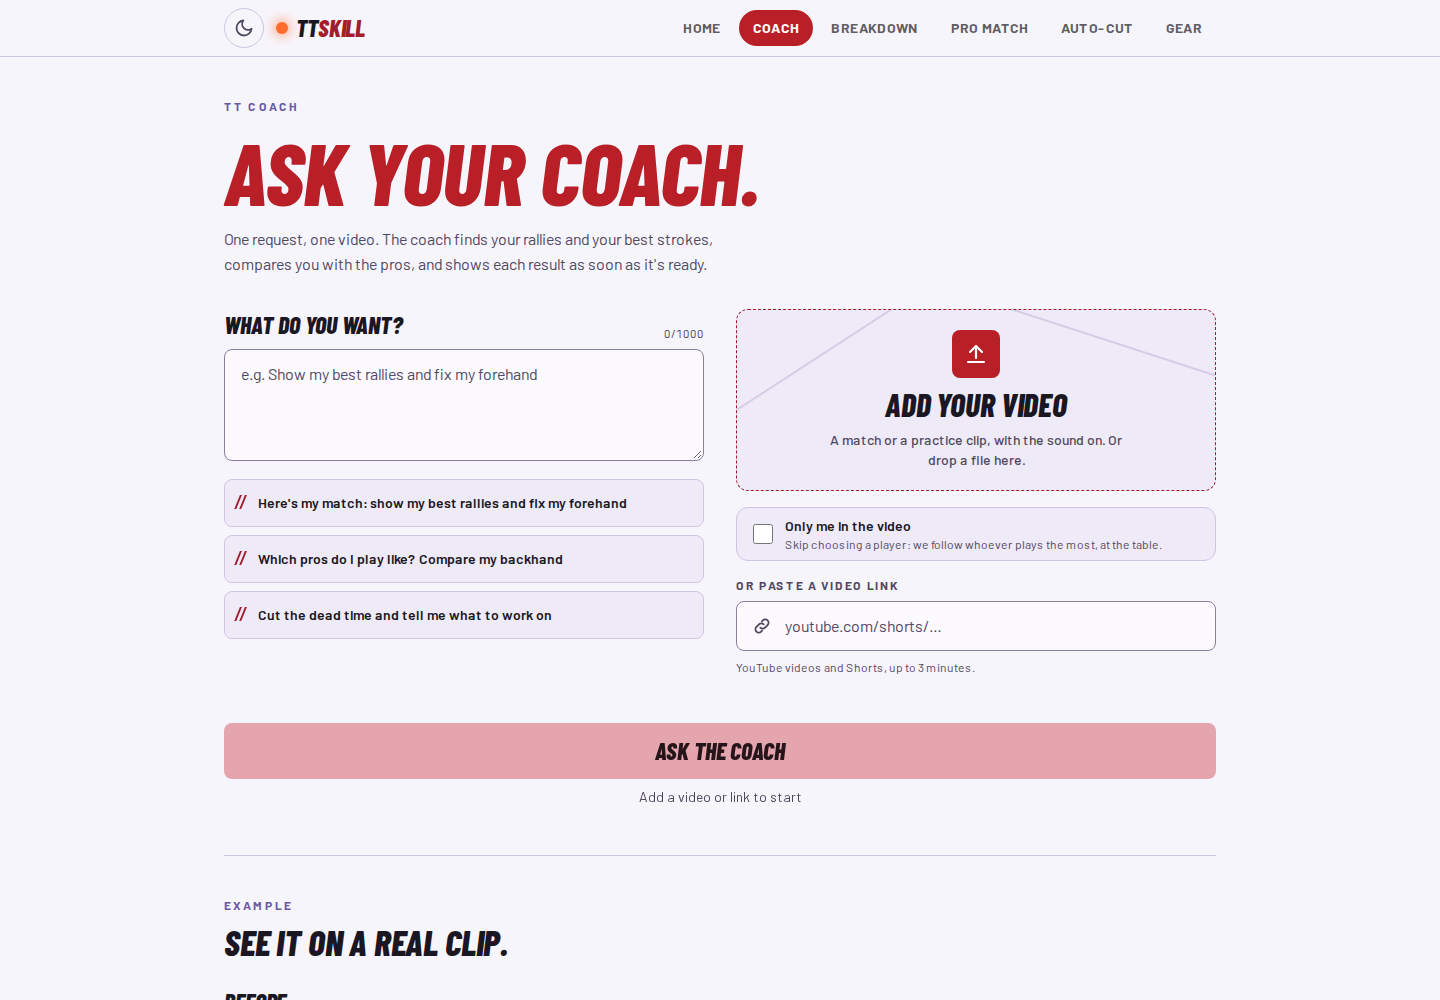
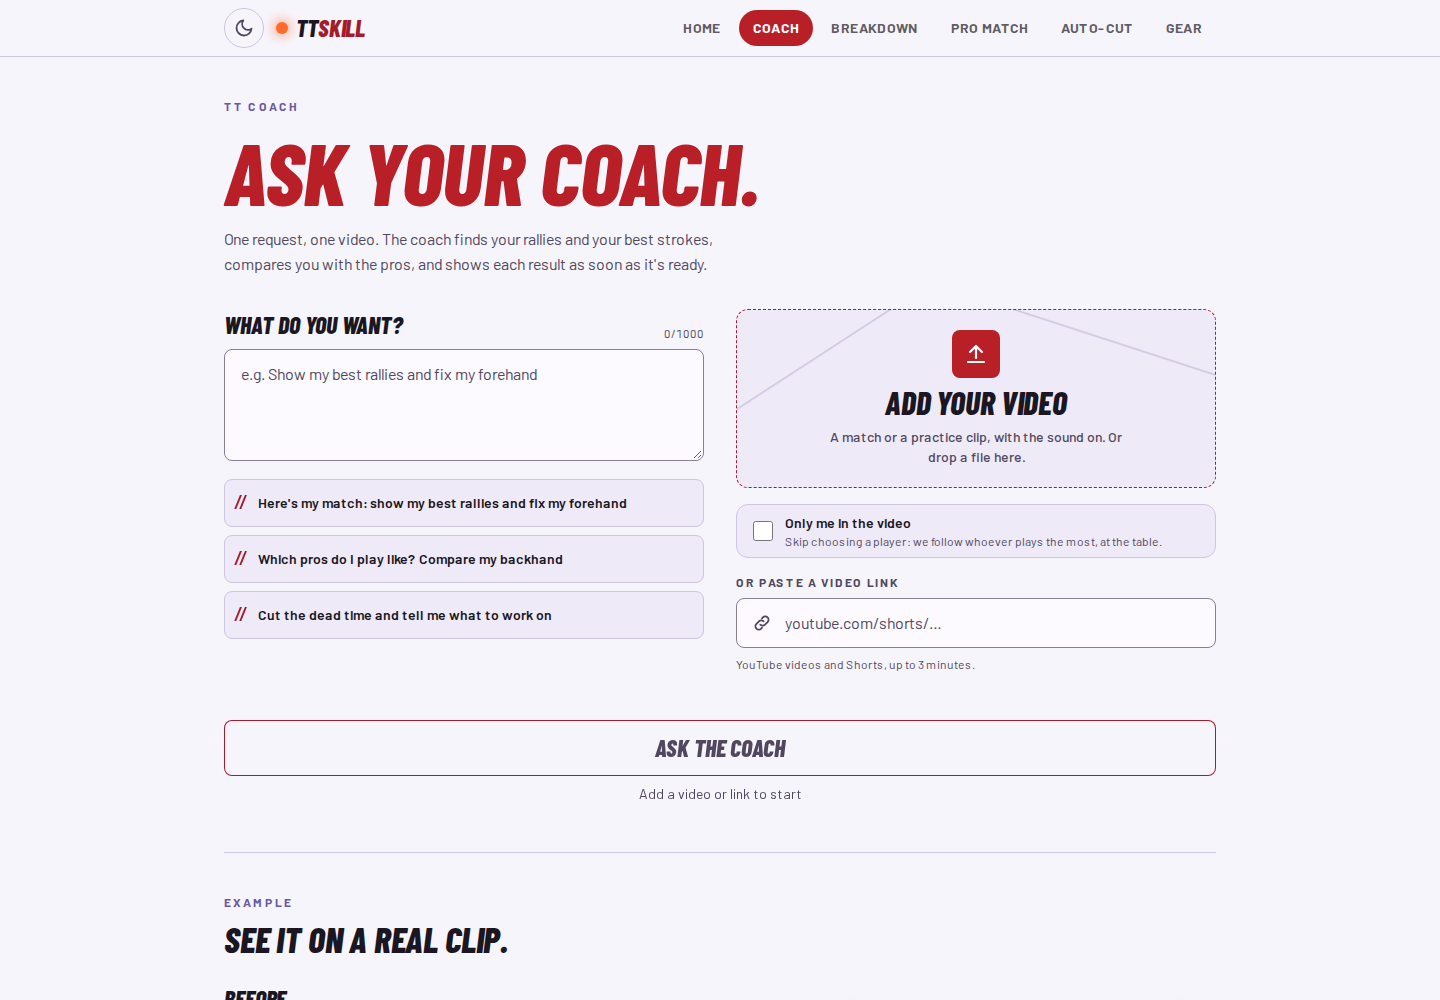
Finalize shared site styling and responsive verification

diff --git a/frontend/app/globals.css b/frontend/app/globals.css
@@ -6,15 +6,15 @@
 @custom-variant light (&:where([data-theme="light"], [data-theme="light"] *));
 
 @theme {
-  /* Ball orange on near-black. */
   --color-ball: #ff6b2c;
-  --color-accent: var(--color-ball);
-  --color-accent-hot: #ff8547;
-  --color-ink: #07090d;
-  --color-panel: #0e1218;
-  --color-line: rgb(255 255 255 / 0.09);
-  --color-muted: #8f97aa;
-  --color-fg: #eef0f5;
+  --color-accent: var(--training-accent);
+  --color-accent-hot: var(--training-ink);
+  --color-ink: var(--training-bg);
+  --color-panel: var(--training-surface);
+  --color-line: var(--training-line);
+  --color-muted: var(--training-muted);
+  --color-fg: var(--training-ink);
+  --color-white: var(--training-ink);
 }
 
 @theme inline {
@@ -56,37 +56,19 @@
   }
 }
 
-/* Light mode: same tokens on a light red page. White is remapped to dark ink so the
-   white-alpha hovers, borders and faint text used across pages flip with the theme. */
-:root[data-theme="light"] {
-  color-scheme: light;
-  --color-accent: #d9400b;
-  --color-accent-hot: #c03608;
-  --color-ink: #ffd6d0;
-  --color-panel: #fff4f2;
-  --color-line: rgb(60 8 8 / 0.16);
-  --color-muted: #6b3a36;
-  --color-fg: #1f0a09;
-  --color-white: #1f0a09;
-}
-
 html {
   color-scheme: dark;
-  --accent-glow: var(--color-ball);
+  --accent-glow: var(--training-action);
   -webkit-tap-highlight-color: transparent;
 }
 
-body {
-  background:
-    radial-gradient(70rem 28rem at 50% -10rem, color-mix(in srgb, var(--color-ball) 16%, transparent), transparent 70%) no-repeat,
-    var(--color-ink);
-  color: var(--color-fg);
+:root[data-theme="light"] {
+  color-scheme: light;
 }
 
-:root[data-theme="light"] body {
-  background:
-    radial-gradient(70rem 28rem at 50% -10rem, rgb(220 38 38 / 0.22), transparent 70%) no-repeat,
-    var(--color-ink);
+body {
+  background: var(--training-bg);
+  color: var(--training-ink);
 }
 
 :focus-visible {
@@ -94,7 +76,7 @@ body {
   outline-offset: 2px;
 }
 
-/* Table and rubber palette used by Coach. */
+/* Table and rubber palette. */
 :root {
   --training-bg: #0a0d12;
   --training-surface: #0e2a47;

diff --git a/frontend/app/training.css b/frontend/app/training.css
@@ -1,37 +1,10 @@
-:root body:has(> main :is(.coach-form, .coach-result, .training-page)) {
-  --color-ink: var(--training-bg);
-  --color-fg: var(--training-ink);
-  --color-white: var(--training-ink);
-  --color-muted: var(--training-muted);
-  --color-panel: var(--training-surface);
-  --color-line: var(--training-line);
-  --color-accent: var(--training-accent);
-  --color-accent-hot: var(--training-ink);
-  --accent-glow: var(--training-action);
-  background: var(--training-bg);
-  color: var(--training-ink);
+/* Keep header text and its background in the same theme during the switch. */
+.site-nav :is(a, button) {
+  transition-property: none;
+}
 
-  > header {
-    background-color: var(--training-bg);
-  }
-
-  .site-nav :is(a, button) {
-    /* Keep the label and its backdrop in the same theme during the switch. */
-    transition-property: none;
-  }
-
-  .brand-ball {
-    background-color: var(--color-ball);
-  }
-
-  :is(.site-nav-links, .gear-tabs) a[aria-current="page"] {
-    background-color: var(--training-action);
-    color: var(--training-on-action);
-  }
-
-  :is([role="alert"], .text-red-100, .text-red-200, .text-red-300, .text-red-400) {
-    color: var(--training-error);
-  }
+:is([role="alert"], .text-red-100, .text-red-200, .text-red-300, .text-red-400) {
+  color: var(--training-error);
 }
 
 .eyebrow {
@@ -76,7 +49,7 @@
   color: var(--training-muted);
 }
 
-.surface-card {
+@utility surface-card {
   border: 1px solid var(--training-line);
   border-radius: var(--training-panel-radius);
   background-color: var(--training-surface);
@@ -199,6 +172,11 @@ a.primary-button:hover {
 }
 
 @media (width < 600px) {
+  html:has(.feature-form) {
+    /* Keep scrolled-to fields clear of the sticky header and submit bar. */
+    scroll-padding-block: 7.25rem 7rem;
+  }
+
   .site-nav {
     display: grid;
     grid-template-columns: auto minmax(0, 1fr);

diff --git a/frontend/app/jobs/[id]/page.tsx b/frontend/app/jobs/[id]/page.tsx
@@ -188,7 +188,7 @@ export default function JobPage({ params }: { params: Promise<{ id: string }> })
 
   if (error) {
     return (
-      <div className="mx-auto training-page max-w-xl space-y-4 rounded-3xl border border-red-500/30 bg-red-500/10 p-6">
+      <div className="mx-auto max-w-xl space-y-4 rounded-3xl border border-red-500/30 bg-red-500/10 p-6">
         <p className="section-title text-4xl">Job not found</p>
         <p className="text-red-200">{error}</p>
         <Link href="/" className={secondaryButtonClass}>Back home</Link>
@@ -198,7 +198,7 @@ export default function JobPage({ params }: { params: Promise<{ id: string }> })
 
   if (!job) {
     return (
-      <div className="training-page mx-auto max-w-3xl" aria-busy="true">
+      <div className="mx-auto max-w-3xl" aria-busy="true">
         <Trouble text={trouble} />
         <div className="stripes -mx-4 -mt-6 aspect-video bg-panel sm:mx-0 sm:mt-0 sm:rounded-3xl" />
         <p className="mt-4 text-muted">Loading...</p>
@@ -214,7 +214,7 @@ export default function JobPage({ params }: { params: Promise<{ id: string }> })
   return (
     <>
     <Trouble text={trouble} />
-    <div className={`training-page mx-auto ${vertical ? "max-w-5xl lg:grid lg:grid-cols-[minmax(0,24rem)_minmax(0,1fr)] lg:items-start lg:gap-10" : "max-w-3xl"}`}>
+    <div className={`mx-auto ${vertical ? "max-w-5xl lg:grid lg:grid-cols-[minmax(0,24rem)_minmax(0,1fr)] lg:items-start lg:gap-10" : "max-w-3xl"}`}>
       <div className={`min-w-0 ${vertical ? "lg:sticky lg:top-20" : ""}`}>
         <Stage job={job} />
       </div>

diff --git a/frontend/app/site-header.tsx b/frontend/app/site-header.tsx
@@ -4,11 +4,11 @@ import { ThemeToggle } from "./theme-toggle";
 
 export function SiteHeader() {
   return (
-    <header className="sticky top-0 z-30 border-b border-line bg-ink/80 pt-[env(safe-area-inset-top)] backdrop-blur-md">
+    <header className="sticky top-0 z-30 border-b border-line bg-ink pt-[env(safe-area-inset-top)] backdrop-blur-md">
       <nav className="site-nav mx-auto flex h-14 max-w-5xl items-center gap-3 px-4">
         <ThemeToggle />
         <Link href="/" className="headline mr-auto flex shrink-0 items-center gap-2 text-2xl">
-          <span aria-hidden className="brand-ball size-3 rounded-full bg-accent shadow-[0_0_12px_2px_color-mix(in_srgb,var(--color-ball)_60%,transparent)]" />
+          <span aria-hidden className="size-3 rounded-full bg-ball shadow-[0_0_12px_2px_color-mix(in_srgb,var(--color-ball)_60%,transparent)]" />
           <span>TT<span className="text-accent">Skill</span></span>
         </Link>
         <Nav />

diff --git a/frontend/app/player-picker.tsx b/frontend/app/player-picker.tsx
@@ -427,7 +427,7 @@ export function PlayerPicker({ previewUrl, duration, file = null, unreadable = f
   return (
     <fieldset className="space-y-3">
       {hidden}
-      <legend className="headline mb-1 text-2xl">{kind === "breakdown" ? "Which player should we analyse?" : "Which one is you?"}</legend>
+      <legend className={`${kind === "coach" ? "headline" : "section-title"} mb-1 text-2xl`}>{kind === "breakdown" ? "Which player should we analyse?" : "Which one is you?"}</legend>
       <p className="text-sm text-muted">
         {found.candidates.length > 1 ? `We see ${found.candidates.length} players. ` : ""}
         {kind === "breakdown" ? "Tap the one to break down." : "Tap yourself so we analyse the right one."}

diff --git a/frontend/app/nav.tsx b/frontend/app/nav.tsx
@@ -27,7 +27,7 @@ export function Nav() {
         return (
           <Link
             key={href} href={href} aria-current={active ? "page" : undefined}
-            className={`shrink-0 rounded-full px-2 py-2 text-[0.7rem] sm:px-3.5 sm:text-sm font-bold uppercase tracking-wide transition ${active ? "bg-accent text-black" : "text-white/70 hover:bg-white/5 hover:text-white"}`}
+            className={`shrink-0 rounded-full px-2 py-2 text-[0.7rem] md:px-3.5 md:text-sm font-bold uppercase tracking-wide transition ${active ? "action-fill" : "text-white/70 hover:bg-white/5 hover:text-white"}`}
           >
             {label}
           </Link>

diff --git a/frontend/app/examples.tsx b/frontend/app/examples.tsx
@@ -17,7 +17,7 @@ function ExampleVideo({ clip }: { clip: Clip }) {
         <span className="text-right text-xs text-muted">{clip.caption}</span>
       </figcaption>
       {clip.message && (
-        <p className="ml-auto w-fit max-w-[85%] rounded-2xl rounded-br-md bg-accent px-4 py-2.5 text-sm font-semibold text-black shadow-[0_0_24px_color-mix(in_srgb,var(--accent-glow)_35%,transparent)]">
+        <p className="action-fill ml-auto w-fit max-w-[85%] rounded-2xl rounded-br-md px-4 py-2.5 text-sm font-semibold shadow-[0_0_24px_color-mix(in_srgb,var(--accent-glow)_35%,transparent)]">
           {clip.message}
         </p>
       )}

diff --git a/frontend/app/page.tsx b/frontend/app/page.tsx
@@ -35,7 +35,7 @@ const tools = [
 
 export default function Home() {
   return (
-    <div className="training-page space-y-12">
+    <div className="space-y-12">
       <section className="grid items-center gap-8 lg:grid-cols-[minmax(0,1fr)_minmax(0,22rem)] lg:gap-12">
         <div className="page-intro space-y-3">
           <p className="eyebrow">AI coaching for table tennis</p>

diff --git a/frontend/app/gear-tabs.tsx b/frontend/app/gear-tabs.tsx
@@ -11,7 +11,7 @@ export function GearTabs({ active }: { active: "rubbers" | "pros" }) {
     </Link>
   );
   return (
-    <nav className="gear-tabs surface-card flex gap-1 p-1">
+    <nav className="surface-card flex gap-1 p-1">
       {tab("/rubbers", "Rubber finder", active === "rubbers")}
       {tab("/pros", "Pro setups", active === "pros")}
     </nav>

diff --git a/frontend/app/breakdown/page.tsx b/frontend/app/breakdown/page.tsx
@@ -56,7 +56,7 @@ export default function BreakdownPage() {
 
   return (
     <>
-    <form onSubmit={onSubmit} noValidate className="training-page feature-form">
+    <form onSubmit={onSubmit} noValidate className="feature-form">
       <PageIntro
         eyebrow="Technique Breakdown"
         title="Swing like the pros."

diff --git a/frontend/app/match/page.tsx b/frontend/app/match/page.tsx
@@ -76,7 +76,7 @@ export default function MatchPage() {
 
   return (
     <>
-    <form onSubmit={onSubmit} noValidate className="training-page feature-form">
+    <form onSubmit={onSubmit} noValidate className="feature-form">
       <PageIntro
         eyebrow="Find my pro match"
         title="Who do you play like?"

diff --git a/frontend/app/autocut/page.tsx b/frontend/app/autocut/page.tsx
@@ -66,7 +66,7 @@ export default function AutoCutPage() {
 
   return (
     <>
-    <form onSubmit={onSubmit} noValidate className="training-page feature-form">
+    <form onSubmit={onSubmit} noValidate className="feature-form">
       <PageIntro
         eyebrow="Match Auto-Cut"
         title="Cut the dead time."
